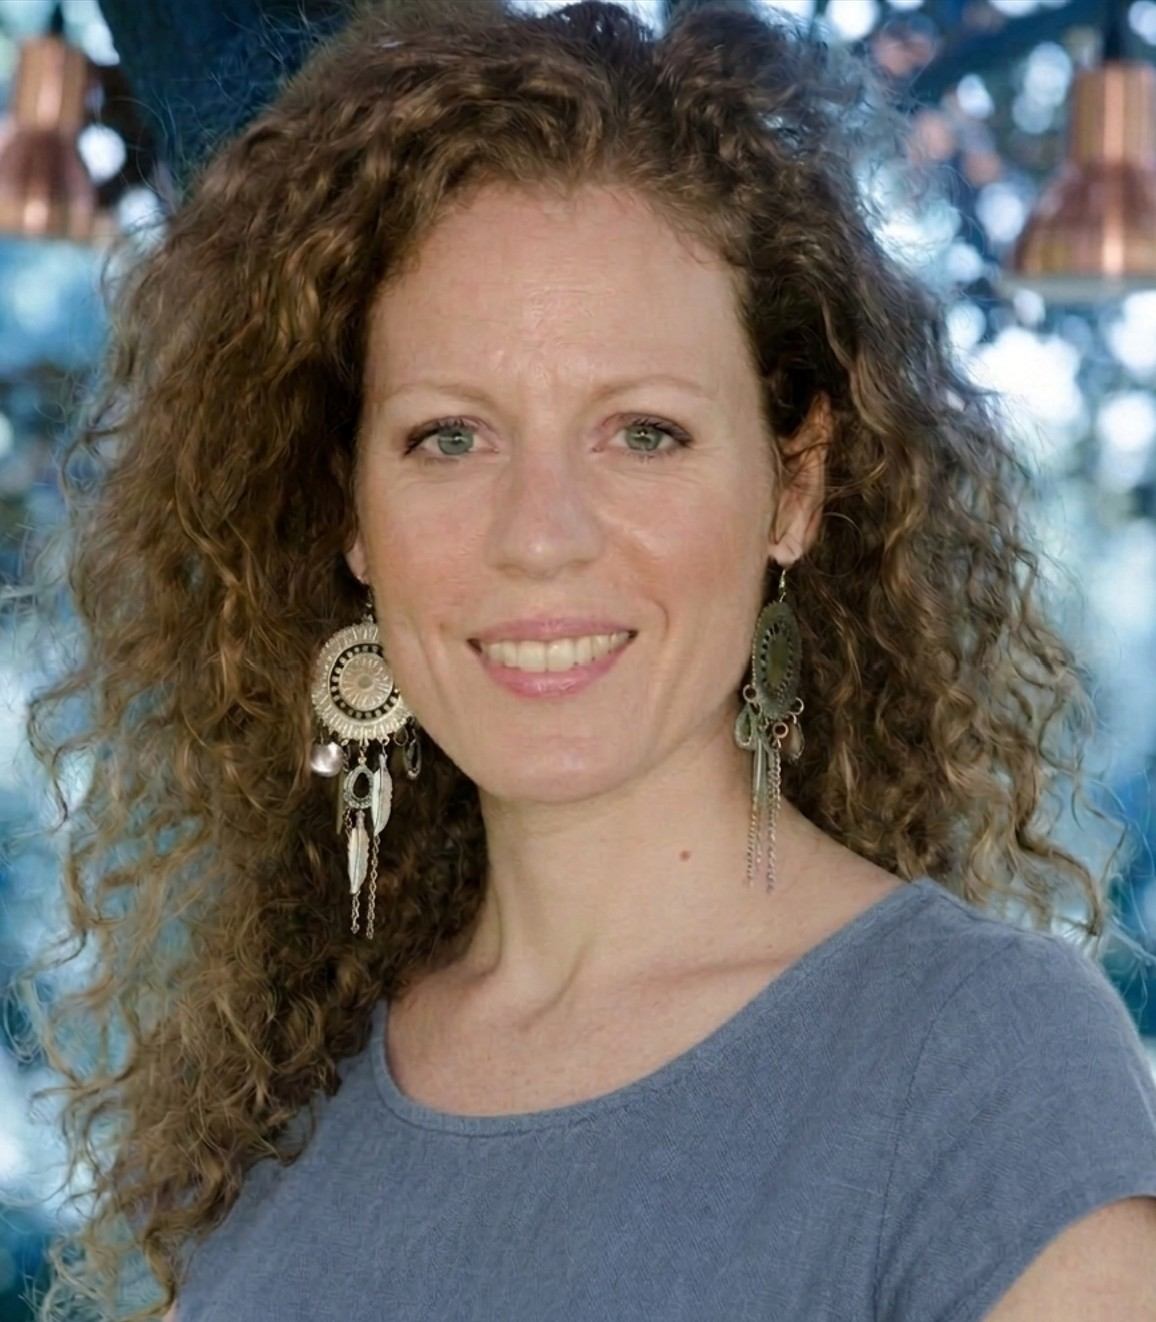
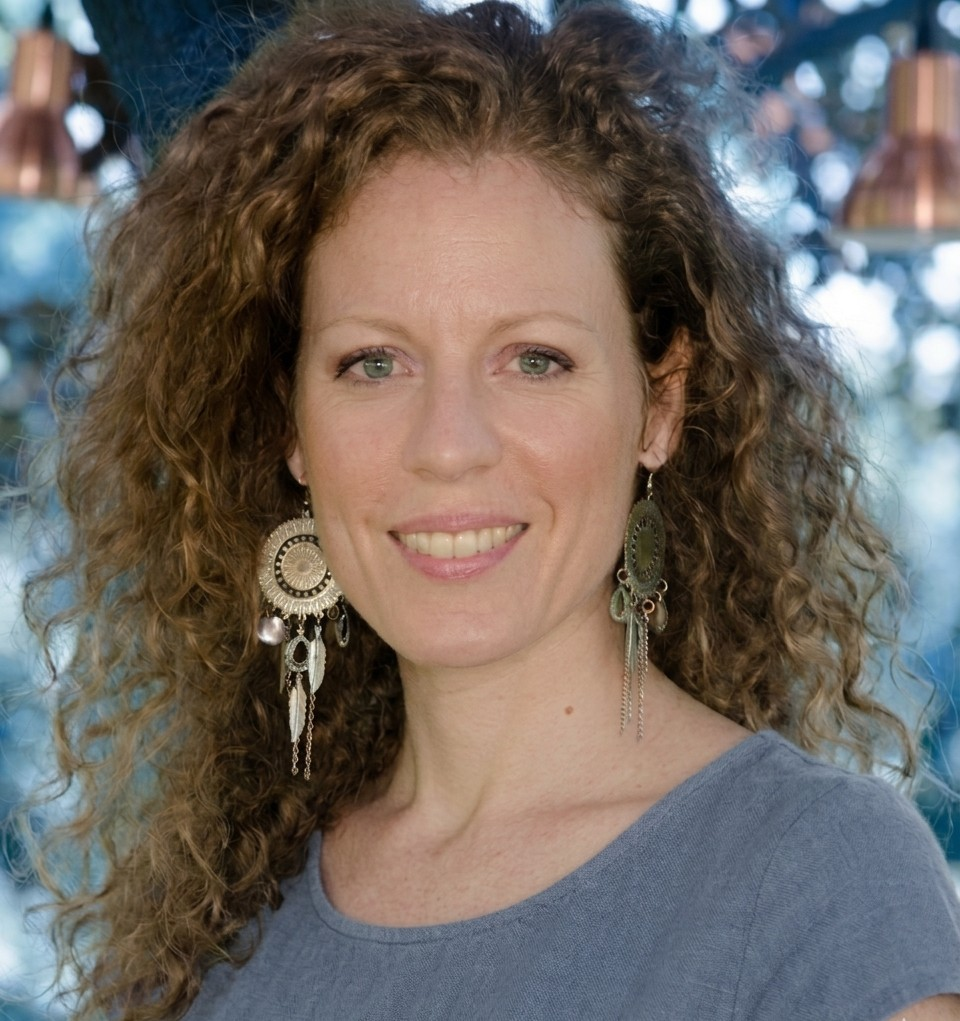
up

diff --git a/lp/20260614vmov.html b/lp/20260614vmov.html
@@ -89,7 +89,7 @@
   <section class="event-section intro-volantino-section">
   <div class="container narrow">
     <div class="intro-wrapper">
-      <span class="eyebrow-brand">Cosa aspettarsi</span>
+      <span class="eyebrow-brand">Cosa aspettarti</span>
       
       <p class="intro-text-display">
         Questo primo incontro gratuito nasce dalla proposta  
@@ -130,8 +130,8 @@
           <i class="fa-solid fa-wind"></i>
         </div>
         <div class="step-content">
-          <h3>Respiro, movimento, pausa</h3>
-          <p>Attraverso il movimento esploreremo come corpo e sistema nervoso rispondono a tensione, attivazione e rilassamento.</p>
+          <h3>Movimento, respiro, pausa</h3>
+          <p>Attraverso il movimento, il respiro e momenti di pausa e osservazione, esploreremo come il corpo risponde a alla pressione, al sostegno, all'adattamento, al rilascio e al cambiamento di prospettiva.</p>
         </div>
       </div>
 
@@ -141,16 +141,15 @@
         </div>
         <div class="step-content">
           <h3>Osservazione e scrittura</h3>
-          <p>Ci prenderemo un momento per notare, e annotare, cosa cambia nel corpo, nei pensieri e nella percezione.</p>
+          <p>Durante l'esperienza ci prenderemo alcuni momenti per osservare e annotare sensazioni, percezioni o piccoli spostamenti emersi attraverso il corpo e il movimento.
+            </p>
         </div>
       </div>
     </div>
 
     <div class="assurance-minimal">
-      <p>I movimenti sono alla portata di tutti.
-        <br>Se presenti condizioni di salute particolari, è importante segnalarlo prima dell'incontro.
-        <br>Non è necessario condividere la propria situazione con il gruppo.
-        <br>Ognuno lavora per sé in uno spazio rispettoso e senza giudizio.</p>
+      <p>I movimenti sono alla portata di tutti.         <br>Se presenti condizioni di salute particolari, è importante segnalarlo prima dell'incontro.
+        <br><br>Non è necessario condividere la propria situazione con il gruppo: ognuno lavora per sé in uno spazio rispettoso e senza giudizio.</p>
     </div>
   </div>
 </section>
@@ -257,13 +256,15 @@
     <h2 class="section-title-elegant">Partecipazione</h2>
     
     <div class="registration-content">
-      <p class="registration-lead">Per riservare il tuo posto <br><b>entro il 10 giugno</b> <br>o per qualsiasi domanda:</p>
+      <p class="registration-lead">Per informazioni o per riservare il tuo posto <b>entro il 10 giugno</b>:</p>
       
 <div style="margin-bottom: 3rem;">
     <a href="https://forms.gle/boGExpzUCDB7Gm4W7" target="_blank" class="btn-volantino btn-google-form" style="padding: 1.2rem 3rem; font-size: 1rem;">
-      <i class="fa-regular fa-file-lines"></i> Compila il modulo di iscrizione
+      <i class="fa-regular fa-file-lines"></i> Modulo di iscrizione
     </a>
   </div>
+
+
 
       <div class="contact-grid-elegant">
         
@@ -284,7 +285,7 @@
         </a>
       </div>
 
-      <p class="registration-note"> </p>
+  
     </div>
   </div>
 </section>

diff --git a/en/index.html b/en/index.html
@@ -275,11 +275,11 @@ The choice of the plural form, "Viradas", emphasizes that change is not a single
                 <br><br>When:
                 <br><br>
                 <ul style="list-style-type: none; padding-left: 0; line-height: 1.8;">
-                    <li style="margin-bottom: 10px;">• <b>some relationships feel heavy</b> and you find yourself saying yes even when you don't want to.</li>
-                    <li style="margin-bottom: 10px;">• <b>you feel stuck in situations that hurt</b>, out of fear of hurting someone or concern about the consequences.</li>
-                    <li style="margin-bottom: 10px;">• <b>the work no longer reflects you</b>, but the idea of both staying and leaving is scary.</li>
-                    <li style="margin-bottom: 10px;">• <b>you try to change habits or behaviors</b>, but always end up repeating them.</li>
-                    <li style="margin-bottom: 10px;">• <b>the body sends signals</b> (fatigue, tension, restlessness) and you're not sure how to listen.</li>
+                    <li style="margin-bottom: 10px;"><b>some relationships feel heavy</b> and you find yourself saying yes even when you don't want to.</li>
+                    <li style="margin-bottom: 10px;"><b>you feel stuck in situations that hurt</b>, out of fear of hurting someone or concern about the consequences.</li>
+                    <li style="margin-bottom: 10px;"><b>the work no longer reflects you</b>, but the idea of both staying and leaving is scary.</li>
+                    <li style="margin-bottom: 10px;"><b>you try to change habits or behaviors</b>, but always end up repeating them.</li>
+                    <li style="margin-bottom: 10px;"><b>the body sends signals</b> (fatigue, tension, restlessness) and you're not sure how to listen.</li>
                 </ul>
                 <a class="section-top-arrow" href="#quick-links" title="Back to top" style="text-decoration: none; font-size: 1.2em;">↑</a>
             </div>

diff --git a/index.html b/index.html
@@ -330,11 +330,11 @@ La scelta della forma plurale, "Viradas"</strong>, sottolinea come il cambiament
                 <h3 style="color: var(--indigo); border-bottom: 1px solid rgba(63, 81, 181, 0.1); display: inline-block; padding-bottom: 5px; margin-bottom: 20px;">Per chi</h3>
                 <br><br>Sta vivendo un momento in cui:<br><br>
                 <ul style="list-style-type: none; padding-left: 0; line-height: 1.8;">
-                    <li style="margin-bottom: 10px;">• <b>alcune relazioni pesano</b> e ci si ritrova a dire di sì anche quando non vorremmo.</li>
-                    <li style="margin-bottom: 10px;">• <b>si resta incastrati in situazioni che fanno male</b>, per paura di ferire qualcuno o per timore delle conseguenze.</li>
-                    <li style="margin-bottom: 10px;">• <b>il lavoro non ci somiglia più</b>, ma spaventa sia l’idea di restare che quella di andarsene.</li>
-                    <li style="margin-bottom: 10px;">• <b>si prova a cambiare abitudini o comportamenti</b>, ma si finisce sempre per rifarli.</li>
-                    <li style="margin-bottom: 10px;">• <b>il corpo manda segnali</b> (stanchezza, tensione, agitazione) e non si sa bene come ascoltarli.</li>
+                    <li style="margin-bottom: 10px;"><b>alcune relazioni pesano</b> e ci si ritrova a dire di sì anche quando non vorremmo.</li>
+                    <li style="margin-bottom: 10px;"><b>si resta incastrati in situazioni che fanno male</b>, per paura di ferire qualcuno o per timore delle conseguenze.</li>
+                    <li style="margin-bottom: 10px;"><b>il lavoro non ci somiglia più</b>, ma spaventa sia l’idea di restare che quella di andarsene.</li>
+                    <li style="margin-bottom: 10px;"><b>si prova a cambiare abitudini o comportamenti</b>, ma si finisce sempre per rifarli.</li>
+                    <li style="margin-bottom: 10px;"><b>il corpo manda segnali</b> (stanchezza, tensione, agitazione) e non si sa bene come ascoltarli.</li>
                 </ul>
                 <a class="section-top-arrow" href="#quick-links" title="Torna su" style="text-decoration: none; font-size: 1.2em;">↑</a>
             </div>

diff --git a/pt/index.html b/pt/index.html
@@ -268,11 +268,11 @@ O símbolo representa um processo de virada: uma mudança que não destrói, mas
                 <h3 style="color: var(--indigo); border-bottom: 1px solid rgba(63, 81, 181, 0.1); display: inline-block; padding-bottom: 5px; margin-bottom: 20px;">Para quem</h3>
                 <br><br>Vive um momento em que:<br><br>
                 <ul style="list-style-type: none; padding-left: 0; line-height: 1.8;">
-                    <li style="margin-bottom: 10px;">• <b>algumas relações pesam</b> e vimo-nos a dizer que sim mesmo quando não queríamos.</li>
-                    <li style="margin-bottom: 10px;">• <b>ficamos presos em situazioni que magoam</b>, por medo de ferir alguém ou por receio das consequências.</li>
-                    <li style="margin-bottom: 10px;">• <b>o trabalho já não se assemelha a nós</b>, mas assusta tanto a ideia de ficar como a de partir.</li>
-                    <li style="margin-bottom: 10px;">• <b>tentamos mudar hábitos ou comportamentos</b>, ma acabamos sempre por repeti-los.</li>
-                    <li style="margin-bottom: 10px;">• <b>o corpo envia sinais</b> (cansaço, tensão, agitação) e não sabemos bem como ouvi-los.</li>
+                    <li style="margin-bottom: 10px;"><b>algumas relações pesam</b> e vimo-nos a dizer que sim mesmo quando não queríamos.</li>
+                    <li style="margin-bottom: 10px;"><b>ficamos presos em situazioni que magoam</b>, por medo de ferir alguém ou por receio das consequências.</li>
+                    <li style="margin-bottom: 10px;"><b>o trabalho já não se assemelha a nós</b>, mas assusta tanto a ideia de ficar como a de partir.</li>
+                    <li style="margin-bottom: 10px;"><b>tentamos mudar hábitos ou comportamentos</b>, ma acabamos sempre por repeti-los.</li>
+                    <li style="margin-bottom: 10px;"><b>o corpo envia sinais</b> (cansaço, tensão, agitação) e não sabemos bem como ouvi-los.</li>
                 </ul>
                 <a class="section-top-arrow" href="#quick-links" title="Voltar ao topo" style="text-decoration: none; font-size: 1.2em;">↑</a>
             </div>